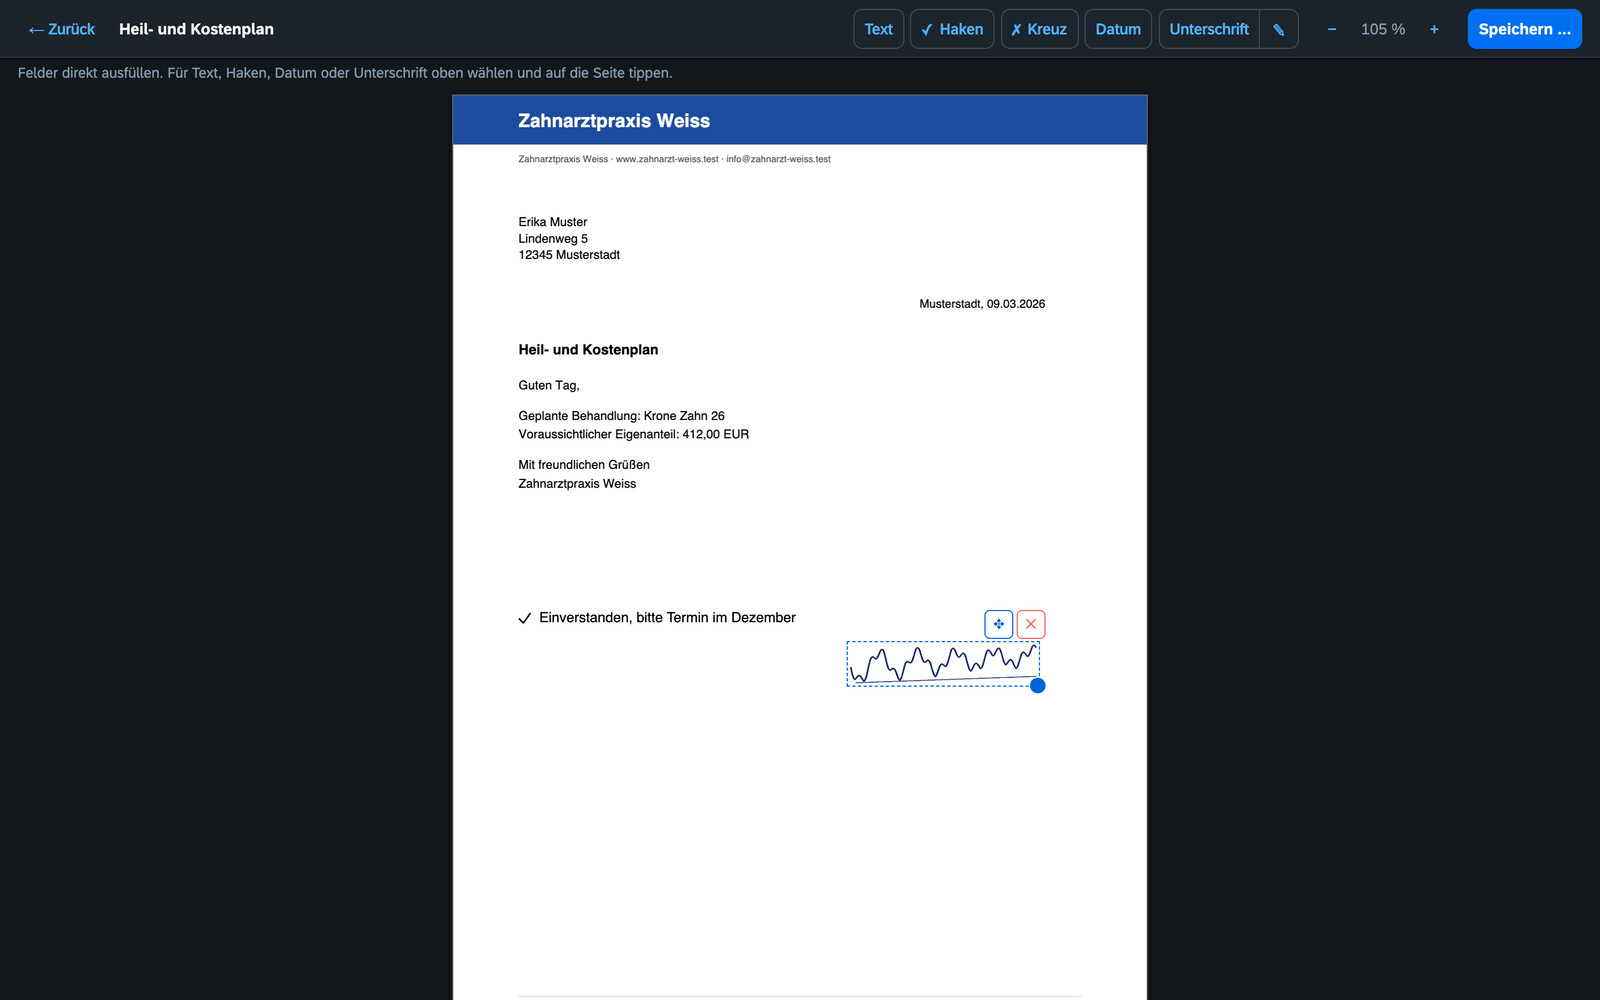
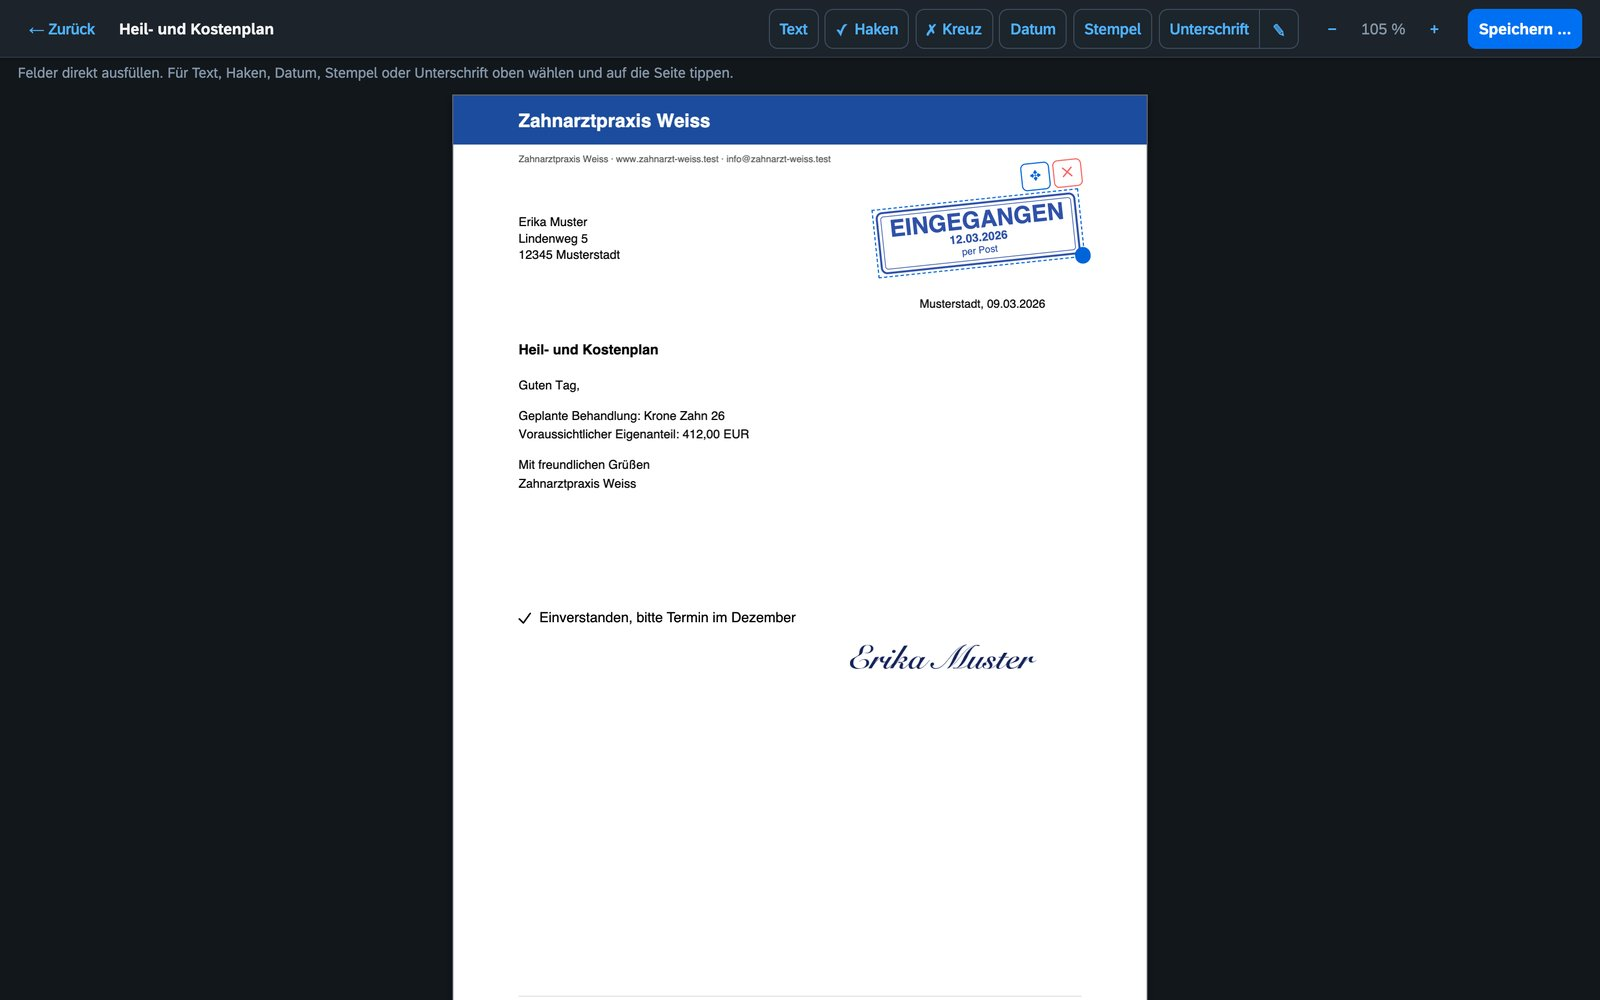
Ordnung! 2026.11.83 – editor screenshot with stamp

diff --git a/tools/demo/screenshots.py b/tools/demo/screenshots.py
@@ -1,6 +1,6 @@
 """Screenshots of a running demo installation (see make_demo.py) with Playwright and Chrome.
 
-    python tools/demo/screenshots.py http://localhost:8472 de OUTDIR [--signature sig.png]
+    python tools/demo/screenshots.py http://localhost:8472 de OUTDIR [--signature sig.png] [--only 06-editor,…]
 """
 
 from __future__ import annotations
@@ -17,9 +17,10 @@ QUERY = {"de": "nordlicht", "en": "nordlicht"}
 POLICY = {"de": "Versicherungsschein Wohngebäude", "en": "Buildings insurance policy"}
 EDIT = {"de": "Heil- und Kostenplan", "en": "Treatment and cost plan"}
 EDIT_TEXT = {"de": "Einverstanden, bitte Termin im Dezember", "en": "Agreed, please book a date in December"}
+STAMP = {"de": ("Eingegangen", "per Post"), "en": ("Received", "by post")}
 
 
-async def shoot(base: str, lang: str, out: Path, signature: Path | None) -> None:
+async def shoot(base: str, lang: str, out: Path, signature: Path | None, only: set[str] | None = None) -> None:
     out.mkdir(parents=True, exist_ok=True)
     async with async_playwright() as p:
         browser = await p.chromium.launch(channel="chrome")
@@ -41,6 +42,8 @@ async def shoot(base: str, lang: str, out: Path, signature: Path | None) -> None
         await page.wait_for_timeout(1500)
 
         async def snap(name: str, wait: int = 1200):
+            if only and name not in only:
+                return
             await page.wait_for_timeout(wait)
             await page.screenshot(path=str(out / f"{name}.png"))
             print("  ", name)
@@ -67,12 +70,13 @@ async def shoot(base: str, lang: str, out: Path, signature: Path | None) -> None
         # 5 senders and rules
         await page.evaluate("location.hash = '#/regeln'")
         await snap("05-absender", 2500)
-        # 6 PDF editor with text, tick and signature
+        # 6 PDF editor with text, tick, stamp and signature
         await page.evaluate("location.hash = '#/'")
         await page.wait_for_timeout(800)
-        await page.evaluate("""async ([title, text]) => {
+        await page.evaluate("""async ([title, text, stamp]) => {
             const d = await api('documents?recursive=true&q=' + encodeURIComponent(title));
             await openEditor(d.items[0]);
+            await stampMeasureReady();
             Ed.scale = 1.05;
             await edRender();
             await edSigLoad();
@@ -82,9 +86,12 @@ async def shoot(base: str, lang: str, out: Path, signature: Path | None) -> None
               const w = 160, h = w * Ed.sigImg.naturalHeight / Ed.sigImg.naturalWidth;
               Ed.items.push({id: 93, page: 1, type: 'sign', x: 340, y: 470, w, h});
             }
+            const st = {id: 94, page: 1, type: 'stamp', x: 450, y: 118, size: 20,
+                        text: stamp[0], date: '2026-03-12', extra: stamp[1], color: 'blue'};
+            Ed.items.push(st);
             Ed.items.forEach(edDrawItem);
-            edSelect(Ed.items[Ed.items.length - 1]);
-        }""", [EDIT[lang], EDIT_TEXT[lang]])
+            edSelect(st);
+        }""", [EDIT[lang], EDIT_TEXT[lang], STAMP[lang]])
         await snap("06-editor", 2500)
         await page.evaluate("closeEditor(true)")
         # 7 settings: areas without owner
@@ -120,4 +127,5 @@ async def shoot(base: str, lang: str, out: Path, signature: Path | None) -> None
 
 if __name__ == "__main__":
     sig = Path(sys.argv[sys.argv.index("--signature") + 1]) if "--signature" in sys.argv else None
-    asyncio.run(shoot(sys.argv[1], sys.argv[2], Path(sys.argv[3]), sig))
+    only = set(sys.argv[sys.argv.index("--only") + 1].split(",")) if "--only" in sys.argv else None
+    asyncio.run(shoot(sys.argv[1], sys.argv[2], Path(sys.argv[3]), sig, only))

diff --git a/README.md b/README.md
@@ -30,7 +30,7 @@ Most document managers are built around tags and filters. That is powerful – a
 - **Moving from Paperless-ngx** is supported with an import planner.
 
 <table>
-<tr><td><img src="docs/screenshots/en/04-posteingang.jpg" alt="Inbox with a suggested folder"></td><td><img src="docs/screenshots/en/06-editor.jpg" alt="PDF editor with signature"></td></tr>
+<tr><td><img src="docs/screenshots/en/04-posteingang.jpg" alt="Inbox with a suggested folder"></td><td><img src="docs/screenshots/en/06-editor.jpg" alt="PDF editor with stamp and signature"></td></tr>
 <tr><td><img src="docs/screenshots/en/03-mappe.jpg" alt="Collection 'Tax return 2026'"></td><td><img src="docs/screenshots/en/02-suche.jpg" alt="Full-text search"></td></tr>
 </table>
 

diff --git a/README.de.md b/README.de.md
@@ -30,7 +30,7 @@ Die meisten Dokumentenverwaltungen bauen auf Tags und Filter. Das ist mächtig, 
 - **Umzug aus Paperless-ngx** mit einem Import-Planer.
 
 <table>
-<tr><td><img src="docs/screenshots/de/04-posteingang.jpg" alt="Posteingang mit Ordnervorschlag"></td><td><img src="docs/screenshots/de/06-editor.jpg" alt="PDF-Editor mit Unterschrift"></td></tr>
+<tr><td><img src="docs/screenshots/de/04-posteingang.jpg" alt="Posteingang mit Ordnervorschlag"></td><td><img src="docs/screenshots/de/06-editor.jpg" alt="PDF-Editor mit Stempel und Unterschrift"></td></tr>
 <tr><td><img src="docs/screenshots/de/03-mappe.jpg" alt="Mappe Steuererklärung 2026"></td><td><img src="docs/screenshots/de/02-suche.jpg" alt="Volltextsuche"></td></tr>
 </table>
 
